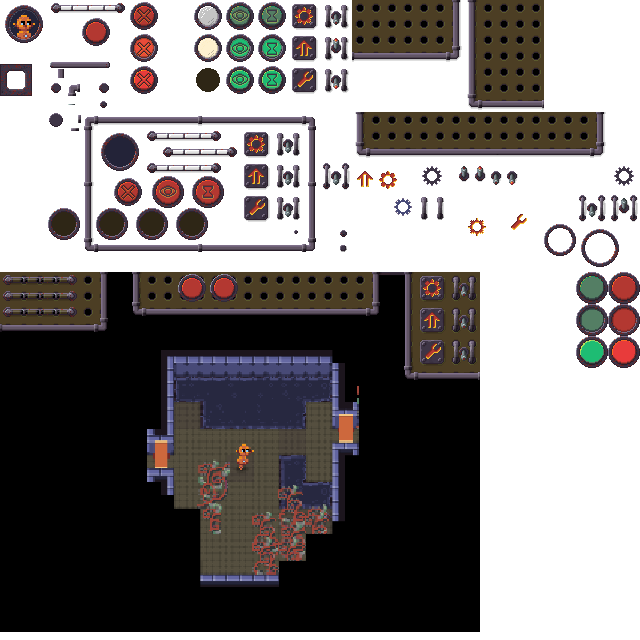
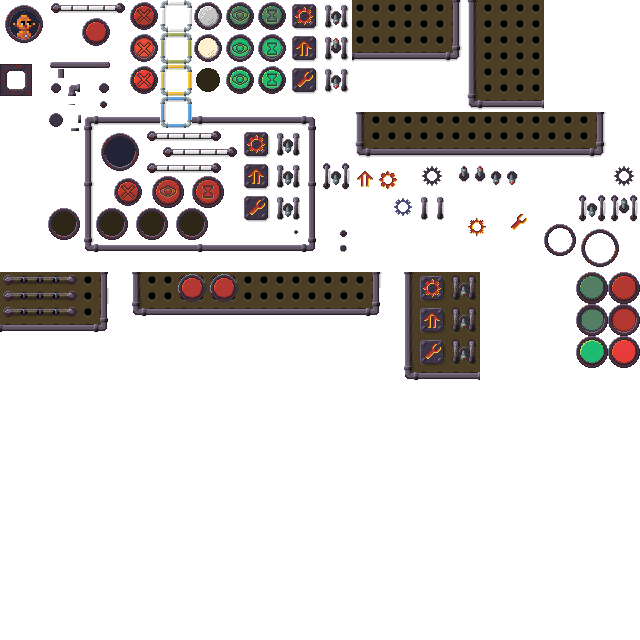
wip: equip art integration

diff --git a/js/inventory.js b/js/inventory.js
@@ -303,25 +303,25 @@ class InventoryData {
 class Inventory extends UxView {
     // STATIC PROPERTIES ---------------------------------------------------
     static get dfltSelectedUnpressed() {
-        return Assets.get('frame.blue.2', true, {lockRatio: true});
+        return Assets.get('equip.slot.blue', true, {lockRatio: true});
     }
     static get dfltSelectedPressed() {
-        return Assets.get('frame.red.2', true, {lockRatio: true});
+        return Assets.get('equip.slot.blue', true, {lockRatio: true});
     }
     static get dfltSelectedHighlight() {
-        return Assets.get('frame.yellow.2', true, {lockRatio: true});
+        return Assets.get('equip.slot.yellow', true, {lockRatio: true});
     }
     static get dfltUnpressed() {
-        return Assets.get('frame.blue', true, {lockRatio: true});
+        return Assets.get('equip.slot.trans', true, {lockRatio: true});
     }
     static get dfltPressed() {
-        return Assets.get('frame.red', true, {lockRatio: true});
+        return Assets.get('equip.slot.trans', true, {lockRatio: true});
     }
     static get dfltHighlight() {
-        return Assets.get('frame.yellow', true, {lockRatio: true});
+        return Assets.get('equip.slot.yellow', true, {lockRatio: true});
     }
     static get dfltMark() {
-        return Assets.get('frame.green.2', true, {lockRatio: true});
+        return Assets.get('equip.slot.green', true, {lockRatio: true});
     }
 
     // CONSTRUCTOR/DESTRUCTOR ----------------------------------------------
@@ -339,13 +339,14 @@ class Inventory extends UxView {
         this.onStatsClick = this.onStatsClick.bind(this);
 
         this.bg = new UxPanel({
-            sketch: Assets.get('oframe.red', true),
-            xform: new XForm({offset: 10, right:.3}),
+            sketch: Assets.get('equip.bg', true),
+            xform: new XForm({right:11/33}),
             children: [
                 new UxPanel({
                     tag: 'equip',
                     xform: new XForm({offset: 10, top: .1, bottom: .2, right:.6}),
-                    sketch: Assets.get('frame.red', true),
+                    //sketch: Assets.get('frame.red', true),
+                    sketch: Sketch.zero,
                     children: [
                         new UxText({
                             text: new Text({text: 'equipment', color: invTextColor}),

diff --git a/js/assets.js b/js/assets.js
@@ -1155,6 +1155,12 @@ let miniaAssets = [
     Sprite.xspec({tag: 'hud.cancel.unpressed', img: new SheetRef({src: 'img/hud.png', width: 32, height: 32, x: 16*8, y: 16*0})}),
     Sprite.xspec({tag: 'hud.cancel.pressed', img: new SheetRef({src: 'img/hud.png', width: 32, height: 32, x: 16*8, y: 16*2})}),
     Sprite.xspec({tag: 'hud.cancel.highlight', img: new SheetRef({src: 'img/hud.png', width: 32, height: 32, x: 16*8, y: 16*4})}),
+
+    Sprite.xspec({tag: 'equip.slot.trans', img: new SheetRef({src: 'img/hud.png', width: 32, height: 32, x: 16*10, y: 16*0})}),
+    Sprite.xspec({tag: 'equip.slot.green', img: new SheetRef({src: 'img/hud.png', width: 32, height: 32, x: 16*10, y: 16*2})}),
+    Sprite.xspec({tag: 'equip.slot.yellow', img: new SheetRef({src: 'img/hud.png', width: 32, height: 32, x: 16*10, y: 16*4})}),
+    Sprite.xspec({tag: 'equip.slot.blue', img: new SheetRef({src: 'img/hud.png', width: 32, height: 32, x: 16*10, y: 16*6})}),
+
     Sprite.xspec({tag: 'hud.scan.unpressed', img: new SheetRef({src: 'img/hud.png', width: 32, height: 32, x: 16*14, y: 16*0})}),
     Sprite.xspec({tag: 'hud.scan.pressed', img: new SheetRef({src: 'img/hud.png', width: 32, height: 32, x: 16*14, y: 16*2})}),
     Sprite.xspec({tag: 'hud.scan.highlight', img: new SheetRef({src: 'img/hud.png', width: 32, height: 32, x: 16*14, y: 16*4})}),
@@ -1174,6 +1180,9 @@ let miniaAssets = [
     Sprite.xspec({tag: 'hud.bar.panel', img: new SheetRef({src: 'img/hud.png', width: 16*7, height: 16*4, x: 16*22, y: 16*0})}),
     Sprite.xspec({tag: 'hud.button.panel', img: new SheetRef({src: 'img/hud.png', width: 16*16, height: 16*3, x: 16*22, y: 16*7})}),
     Sprite.xspec({tag: 'hud.toggle.panel', img: new SheetRef({src: 'img/hud.png', width: 16*5, height: 16*7, x: 16*29, y: 16*0})}),
+
+    Sprite.xspec({tag: 'equip.bg', img: new SheetRef({src: 'img/equip.png', width: 16*22, height: 16*19, x: 16*4, y: 16*1})}),
+    Sprite.xspec({tag: 'equip.pop.bg', img: new SheetRef({src: 'img/equip.png', width: 16*11, height: 16*11, x: 16*26, y: 16*5})}),
 
     Animation.xspec({tag: 'funguy.mover', x_cels: [
         Cel.xspec({x_sketch: Sprite.xspec({img: new SheetRef({src: 'img/funguy.png', width: 16, height: 32, x: 16*1, y: 0})}), ttl: 25 }),

diff --git a/js/playState.js b/js/playState.js
@@ -492,7 +492,7 @@ class PlayState extends GameState {
         if (this.inventory) this.inventory.destroy();
         this.inventory = new Inventory({
             tag: 'inventory',
-            xform: new XForm({border: .1}),
+            xform: new XForm({left: 4/39, right: 2/39, top: 1/21, bottom: 1/21, width: 33, height: 19, lockRatio: true}),
             data: this.player.inventory,
         });
         // handle inventory closing, re-enable
